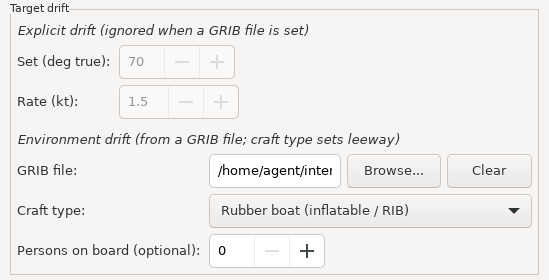
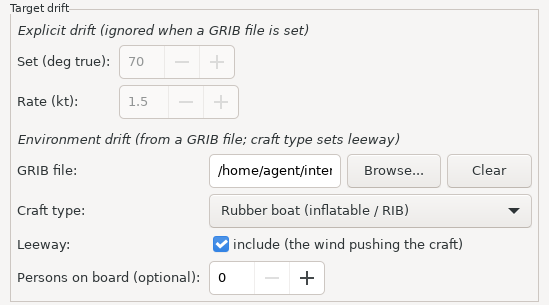
Leeway toggle: docs, and screenshots for the new panel row
User guide (the checkbox, the new "Drift applied" wording), the leeway
doc's "must let the operator turn drift off" now says it is done, CLAUDE.md
and the Changelog. The screenshot script gathers its panel-relative row
positions in one block at the top and follows the new row; the pictures
are regenerated.

diff --git a/docs/USER_GUIDE.md b/docs/USER_GUIDE.md
@@ -138,6 +138,12 @@ Instead of a drift, give the plugin the weather and sea it drifted in:
   (*leeway*): a rubber boat or inflatable is pushed harder than a wooden
   displacement hull. **Unknown / not specified** uses the rubber-boat
   figures, the more cautious choice.
+- **Leeway: include** — ticked (the default), the target drifts with the
+  current plus the wind's leeway. Untick it to use the current alone: the
+  leeway figures are not verified, so if you don't trust them you can
+  leave them out. The uncertainty ring then grows — the wind still pushes
+  the target, the plugin just doesn't estimate how much. Only available
+  with a GRIB file.
 - **Persons on board (optional)** — recorded with the case; it does not
   change the calculation.
 
@@ -179,7 +185,7 @@ invalid input shows the error in a dialog.)
 |---|---|
 | **Estimated position (now)** | Where the target is estimated to be at the time of the calculation. Shown in the latitude/longitude format chosen in OpenCPN's options. |
 | **Uncertainty radius** | How far from that estimate the target may be — see below. Drawn on the chart as a ring around the estimated position. |
-| **Drift applied** | Where the drift came from: the entered set and rate, "from GRIB file", or none. |
+| **Drift applied** | Where the drift came from: the entered set and rate, "from GRIB file", "from GRIB file, current only (leeway off)", or none. |
 | **Moved from report** | How far, and in which direction, the estimate has moved from the reported position. |
 | **Elapsed since report** | How long the target has been drifting (hours:minutes). |
 

diff --git a/CLAUDE.md b/CLAUDE.md
@@ -86,6 +86,9 @@ by `test_position_parse`), `intercept_panel.{h,cpp}` (the UI), `datum_age.{h,cpp
    uses — so an operator who doesn't trust the unverified leeway model can fall
    back to current-only, and with no environmental data at all the route is
    just bearing-to-reported-position. Wind and drift are both optional inputs.
+   — **done:** the panel's "Leeway: include" checkbox (`Case::include_leeway`,
+   `ComputeAgedDatum(…, include_leeway)`); unticked, the leeway counts as
+   unknown in the uncertainty (`AgedDatum::leeway_applied`).
 5. Search patterns: expanding square, sector, parallel track, as routes
 
 **Wind/current source — decided: an optional operator-selected GRIB file.**

diff --git a/docs/LEEWAY_NEEDS_VERIFICATION.md b/docs/LEEWAY_NEEDS_VERIFICATION.md
@@ -185,3 +185,8 @@ The ring around the estimated position has radius **E + divergence**:
 The intercept computation must let the operator **turn drift off** — compute
 the datum both with and without leeway whenever wind/current is available, and
 let the operator choose which the displayed route uses. See `CLAUDE.md`.
+
+**Done:** the panel's "Leeway: include" checkbox (with a GRIB file). Unticked,
+the target drifts with the current alone, both for the estimate and for the
+intercept, and the leeway counts as an unknown 0.5 kt in the uncertainty —
+switching the model off must not make the result look more certain.

diff --git a/Changelog.md b/Changelog.md
@@ -6,6 +6,10 @@ All notable changes to the Intercept plugin. This project follows
 ## [Unreleased]
 
 ### Added
+- Leeway on/off: with a GRIB file, "Leeway: include" chooses whether the
+  target drifts with the current plus leeway, or with the current alone for
+  an operator who doesn't trust the unverified leeway figures. With leeway
+  off the uncertainty ring widens rather than shrinks.
 - Uncertainty circle: a ring around the "Estimated position" mark, drawn by
   OpenCPN as a range ring on that mark, shows how far from it the target may
   be. The radius is IAMSAR's total probable error of position (reported
